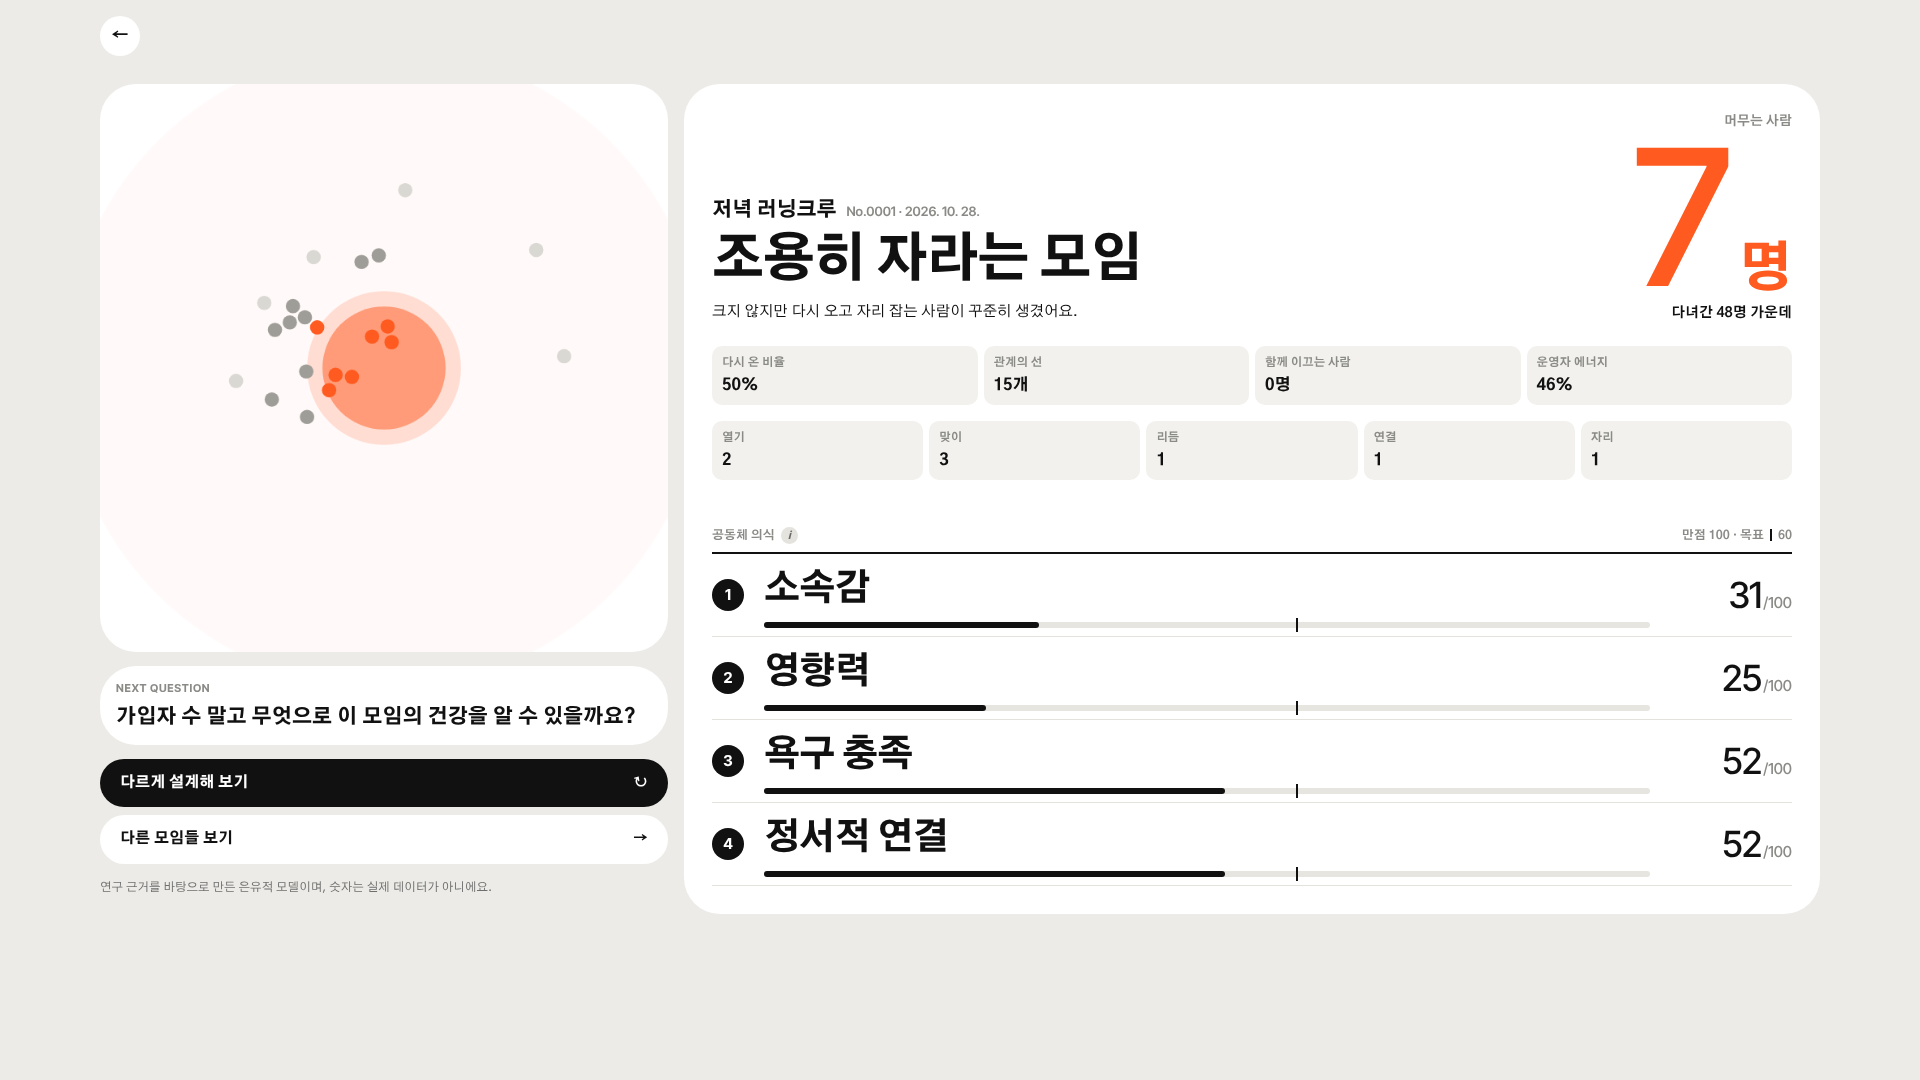
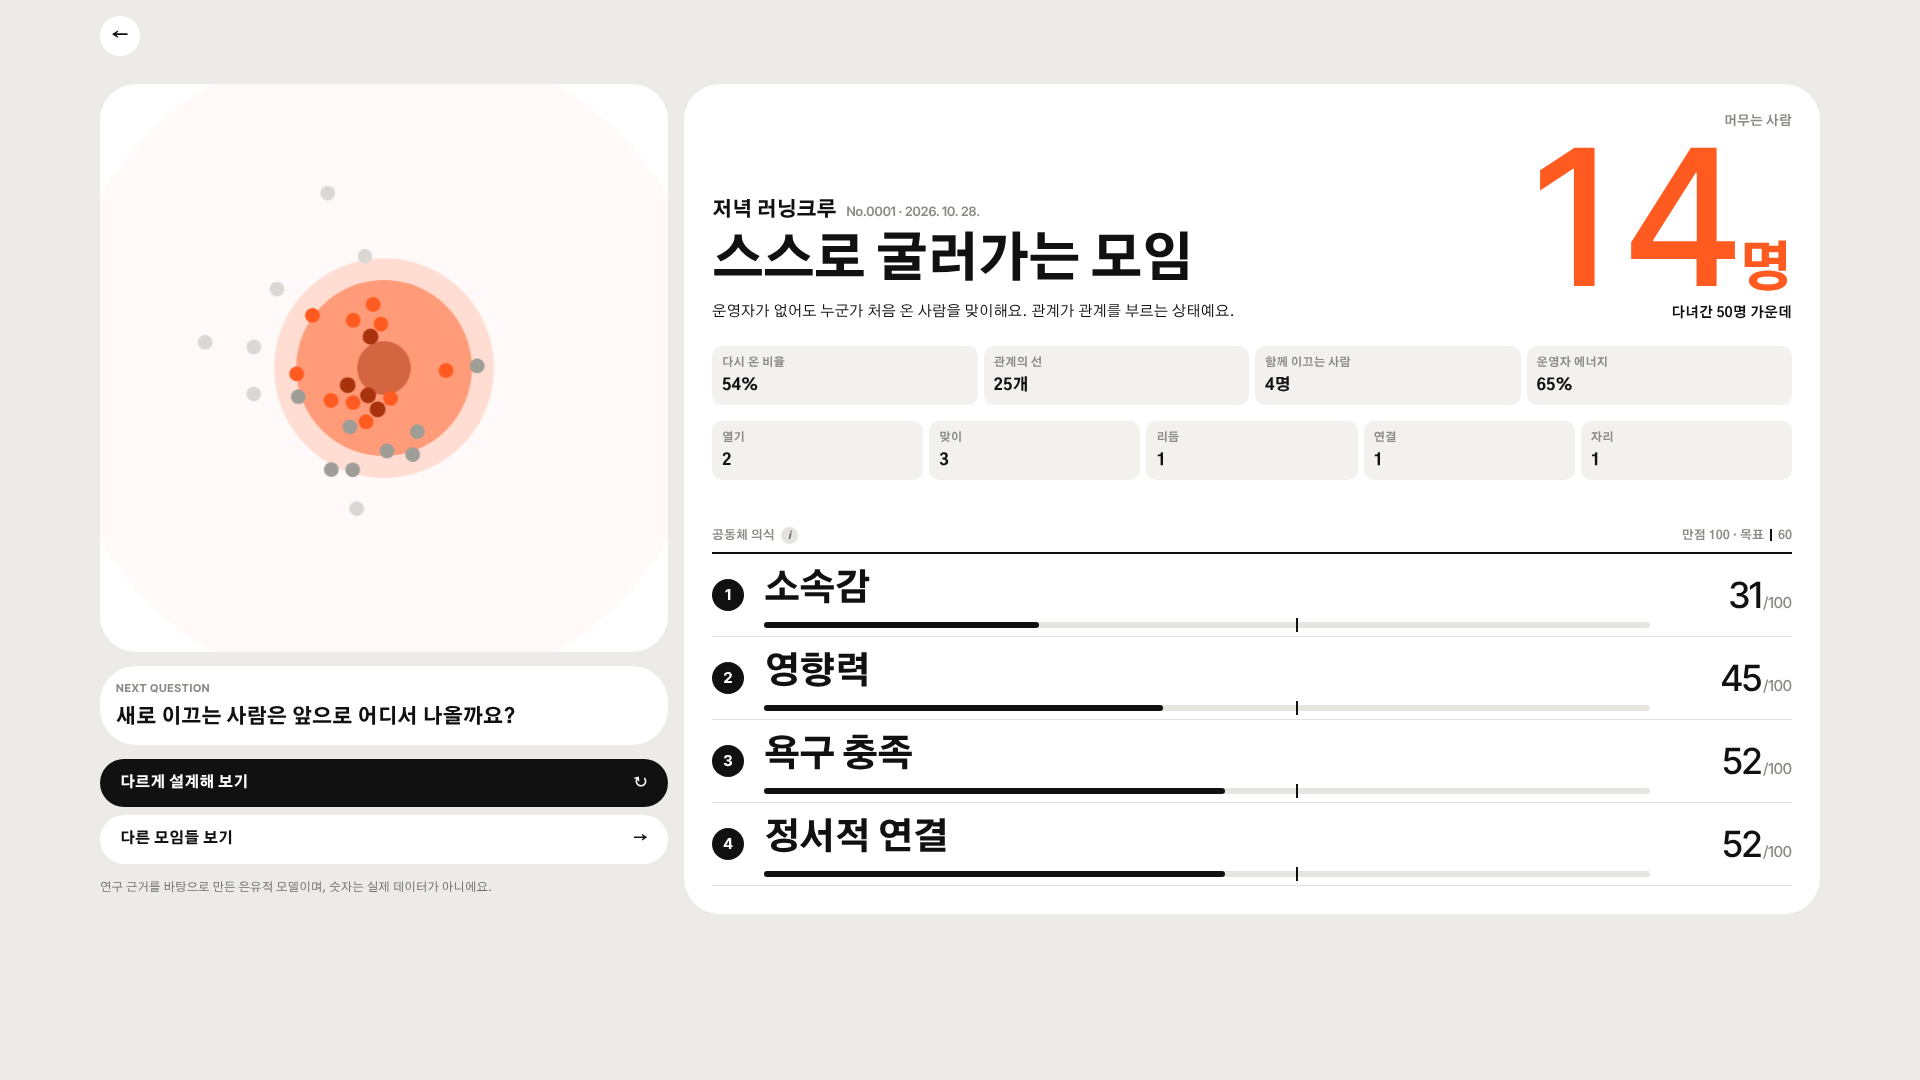
게임 시안: 모임 회차를 여덟 칸 시계로
Claude-Session: https://claude.ai/code/session_01SaCvLutmawHZS3kxPWYxw7

diff --git a/thesis/game/moim.v07.src.html b/thesis/game/moim.v07.src.html
@@ -681,6 +681,11 @@ body{background:var(--page)}
 .ptitle sup{white-space:nowrap}
 .pcard .cat{font-size:13px;color:var(--ink);font-weight:700}
 @media (min-width:900px){.canvas-wrap{min-height:calc(100vh - 200px)!important}}
+
+.mclock{display:flex;align-items:center;gap:14px;margin-top:4px}
+.mclock svg{width:clamp(84px,6.4vw,112px);height:auto;flex:none}
+.mclock .hero-n{font-size:clamp(40px,3.6vw,56px)}
+.ovbar{grid-template-columns:minmax(0,.9fr) minmax(0,1.15fr) minmax(0,1.15fr)}
 @media (prefers-reduced-motion:reduce){*{transition:none!important;animation:none!important}}
 </style>
 
@@ -1078,7 +1083,7 @@ function renderTool(){
     <div class="panel" id="panel"></div>
     <div class="canvas-wrap"><canvas id="cv" role="img" aria-label="모임 현장: 바깥에서 안쪽으로 처음 온 사람, 다시 온 사람, 자리 잡은 사람, 함께 이끄는 사람"></canvas>
       <div class="c-top"><span><span class="latin">${T.en}</span> · ${T.name} · <span id="mt"></span></span></div>
-      <div class="ovbar" id="ovbar"><div class="ov ov-r"><small>모임</small><b class="hero-n" id="ovM"></b></div>
+      <div class="ovbar" id="ovbar"><div class="ov ov-r"><small>모임</small><div class="mclock" id="ovM"></div></div>
       <div class="ov ov-l"><small>머무는 사람${info('파란 점: 자리를 잡았거나 함께 이끄는 사람이에요. 한 번 다녀간 사람과 달리 모임에 계속 머물러요.')}</small><b class="hero-n" id="ovN"></b><span id="ovT"></span><p class="msg" id="ovMsg"></p></div>
       <div class="ov ov-e" id="ovE"></div></div>
       <div class="c-cap"><span id="cap"></span><span class="c-key2">${info(`바깥에서 안쪽으로 ${STAGE_NAMES.join(' → ')}. 선은 사람 사이의 관계예요. 가운데는 모임이 함께하는 활동이에요. 사람들은 운영자가 아니라 활동을 가운데 두고 모여요.`)}</span>
@@ -1114,6 +1119,15 @@ const SKICON={
   conn:'<circle cx="6" cy="12" r="2.5"/><circle cx="18" cy="6" r="2.5"/><circle cx="18" cy="18" r="2.5"/><path d="M8.3 11l7.4-3.8M8.3 13l7.4 3.8"/>',
   roles:'<path d="M5 21V4"/><path d="M5 4h12l-2.5 4L17 12H5"/>'};
 function sicon(k){return `<svg class="sic" viewBox="0 0 24 24" aria-hidden="true" fill="none" stroke="currentColor" stroke-width="1.8" stroke-linecap="round" stroke-linejoin="round">${SKICON[k]}</svg>`;}
+// 모임 회차를 시계처럼: 여덟 칸이 12시 방향부터 시계 방향으로 차고, 바늘이 지금 회차를 가리켜요
+function clockSVG(m){
+  const N=MEETINGS,R=46,seg=[];
+  const pt=(a,r)=>[(Math.cos(a)*r).toFixed(2),(Math.sin(a)*r).toFixed(2)];
+  for(let i=0;i<N;i++){const a0=-Math.PI/2+i*2*Math.PI/N+.13,a1=a0+2*Math.PI/N-.26,[x0,y0]=pt(a0,R),[x1,y1]=pt(a1,R);
+    seg.push(`<path d="M${x0} ${y0} A${R} ${R} 0 0 1 ${x1} ${y1}" fill="none" stroke="${i<m?'var(--ink)':'#dcdbd5'}" stroke-width="10" stroke-linecap="butt"/>`);}
+  const ah=-Math.PI/2+m*2*Math.PI/N,[hx,hy]=pt(ah,30);
+  return `<svg viewBox="-60 -60 120 120" role="img" aria-label="모임 ${m}번째 / ${N}번">${seg.join('')}<line x1="0" y1="0" x2="${hx}" y2="${hy}" stroke="var(--ink)" stroke-width="4" stroke-linecap="round" style="transition:all .6s"/><circle r="6" fill="var(--ink)"/></svg>`;
+}
 function gauge(e){
   const N=12,on=Math.ceil(e/100*N),c=e>=30?'var(--ink)':'var(--red)';
   return `<div class="gauge" role="meter" aria-valuemin="0" aria-valuemax="100" aria-valuenow="${e}" aria-label="운영자 에너지">${Array.from({length:N},(_,i)=>`<i style="${i<on?`background:${c}`:''}"></i>`).join('')}</div>`;
@@ -1127,7 +1141,7 @@ function renderPanel(){
   document.getElementById('ovN').innerHTML=`${rooted}<em>명</em>`;
   document.getElementById('ovT').textContent=`다녀간 사람 ${st.total+2}명`;
   document.getElementById('ovMsg').textContent=relMsg(rooted);
-  document.getElementById('ovM').innerHTML=`${st.meeting}<em>/${MEETINGS}</em>`;
+  document.getElementById('ovM').innerHTML=`${clockSVG(st.meeting)}<b class="hero-n">${st.meeting}<em>/${MEETINGS}</em></b>`;
   document.getElementById('ovE').innerHTML=`<small>운영자 에너지${info('스킬을 많이 쓸수록 운영자가 바빠지고, 함께 이끄는 사람이 생기면 덜 지쳐요.')}</small><b class="hero-n ${e<30?'low':''}">${e}<em>%</em></b>${gauge(e)}<p class="msg">${energyMsg(e,leaders)}</p>`;}
   document.getElementById('cap').innerHTML=st.phase==='alloc'?'왼쪽에서 스킬 포인트를 나누고 시작을 누르세요.':lv?'4번의 모임이 끝났어요. 포인트를 더 나눠 보세요.':(st.cap||(st.last?`새로 온 사람 <b>${st.last.n}</b> · 다시 온 사람 <b>${st.last.back}</b> · 자리 잡은 사람 <b>${st.last.settle}</b> · 떠난 사람 <b>${st.last.gone}</b>`:''));
   const e=Math.round(st.E);

diff --git a/thesis/26-game-prototype.md b/thesis/26-game-prototype.md
@@ -187,3 +187,4 @@
 - v2.8: 모임 고르기 제목 줄 전체 삭제, 시뮬레이션 화면은 모임 이름을 상자 밖 큰 제목(64px)으로 꺼내고 위첨자에 코드·타입, 뒤로 버튼과 제목 사이 여백 34px, 첫 상자는 장소·일정 + 특징·주의
 - v2.9: 시뮬레이션 제목 옆 "RUN · TYPE B" 삭제
 - v2.10: 시작 버튼 "모임 8번 시작" → "Start"
+- v2.11: 모임 회차를 시계로: 여덟 칸이 12시부터 시계 방향으로 차고 바늘이 지금 회차를 가리킴(바늘은 0.6초 동안 움직임), 옆에 3/8 숫자
